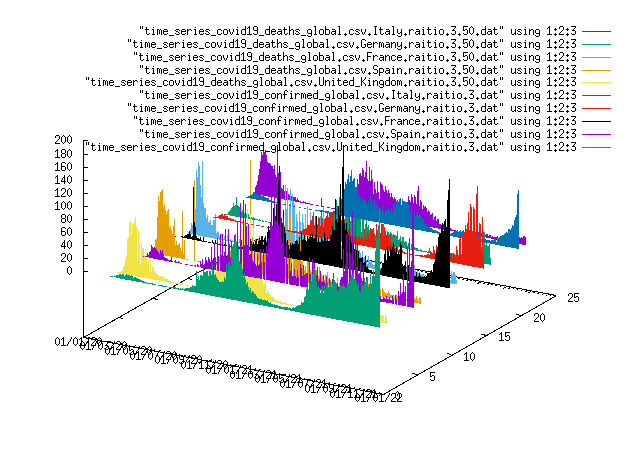
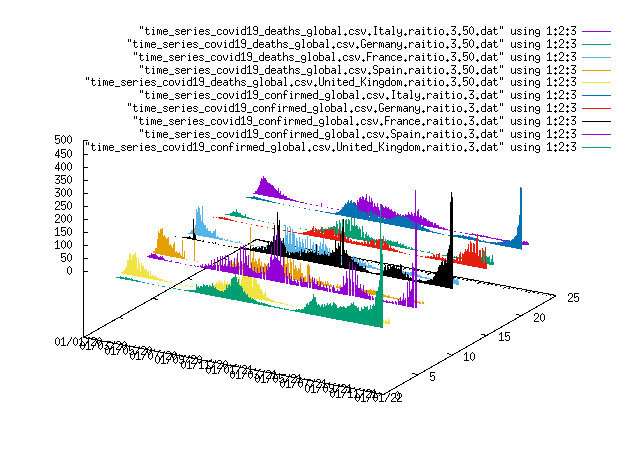
up

Changed region(s): [[0.1875, 0.3422, 0.8438, 0.7156], [0.0625, 0.3422, 0.0938, 0.3733]]

diff --git a/index.html b/index.html
@@ -131,7 +131,7 @@ border-left:none;
   <li><a href="https://raw.githubusercontent.com/KeiHasegawa/covid19/master/JapanRussia.jpg">日本, ロシア 10 万人当りの新規陽性者数と死者数</a></li>
   <li><a href="https://raw.githubusercontent.com/KeiHasegawa/covid19/master/JapanUK.jpg">日本, イギリス 10 万人当りの新規陽性者数と死者数</a></li>
   <li><a href="https://raw.githubusercontent.com/KeiHasegawa/covid19/master/Sat_Aug_28_13:00:00_2021.jpg">東京, 千葉, 埼玉, 神奈川の 2021/08/28 (土) 13:00 の人出</a></li>
-  <li><a href="https://raw.githubusercontent.com/KeiHasegawa/covid19/master/Nihonbashi.jpg">日本橋の人出(2021/08/22 - 2021/12/25)</a></li>
+  <li><a href="https://raw.githubusercontent.com/KeiHasegawa/covid19/master/Nihonbashi.jpg">日本橋の人出(2021/08/22 - 2022/01/02)</a></li>
   <li><a href="https://raw.githubusercontent.com/KeiHasegawa/covid19/master/read_tokyo.cpp">read_tokyo.cpp</a></li>
   <li><a href="https://raw.githubusercontent.com/KeiHasegawa/covid19/master/read_nhk.cpp">read_nhk.cpp</a></li>
   <li><a href="https://raw.githubusercontent.com/KeiHasegawa/covid19/master/read_tsc19.cpp">read_tsc19.cpp</a></li>

diff --git a/disp_main.cpp b/disp_main.cpp
@@ -2146,6 +2146,12 @@ int read_dll()
     "../2021.12.23.18/2021_12_23_18",
     "../2021.12.24.18/2021_12_24_18",
     "../2021.12.26.18/2021_12_26_18",
+    "../2021.12.27.18/2021_12_27_18",
+    "../2021.12.28.18/2021_12_28_18",
+    "../2021.12.29.18/2021_12_29_18",
+    "../2021.12.30.18/2021_12_30_18",
+    "../2022.01.01.18/2022_01_01_18",
+    "../2022.01.02.18/2022_01_02_18",
   };
   auto p = find_if(begin(dll), end(dll), read_dll1);
   return p - end(dll);
